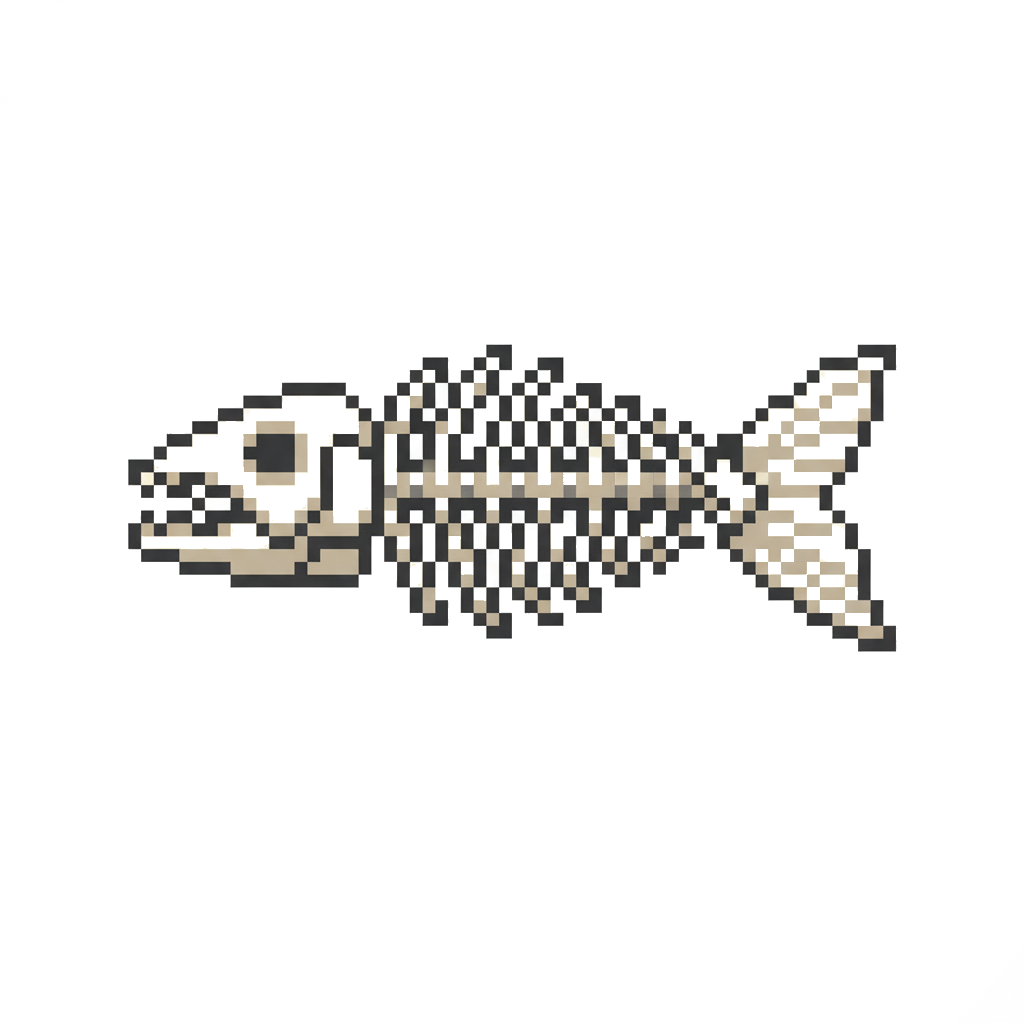
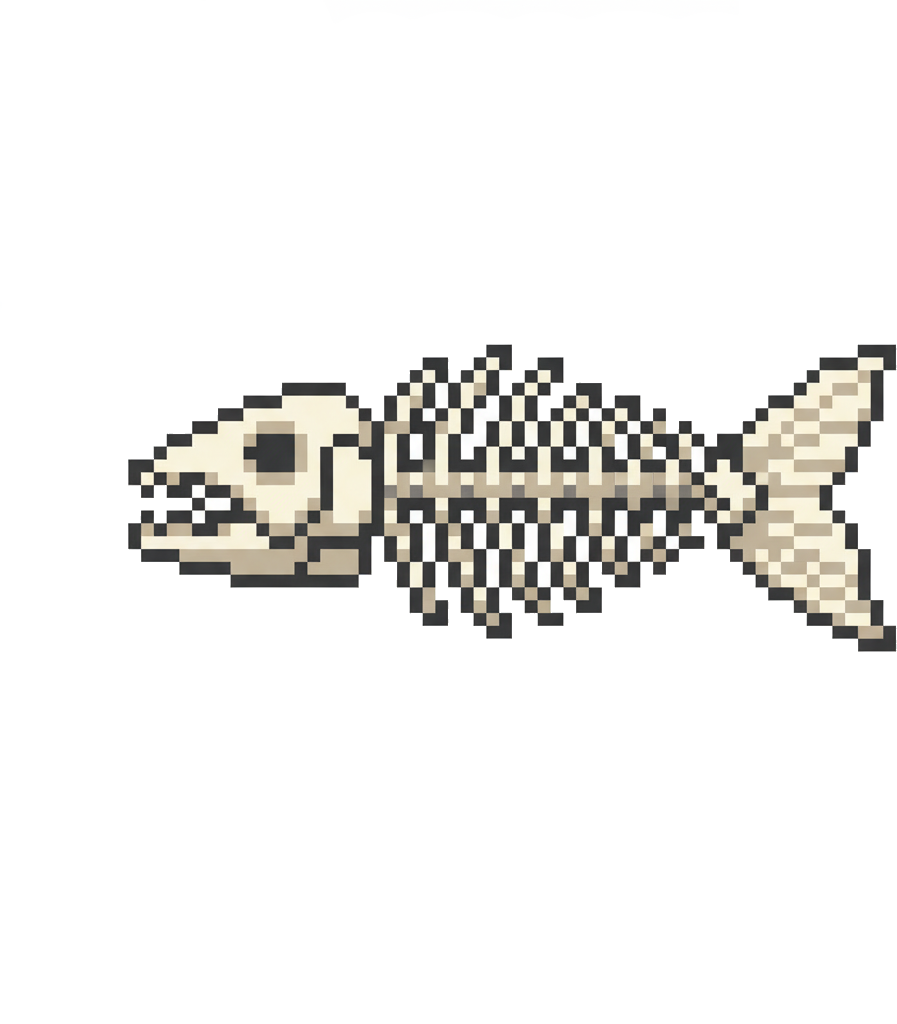
alteração de imagem lixo e informações do jogo no card game over

Changed region(s): [[0.1249, 0.3125, 1.0, 0.6562]]

diff --git a/Title.html b/Title.html
@@ -12,8 +12,22 @@
         body {
             font-family: "Jersey 10", sans-serif;
             background-color:aquamarine;
+            font-family: "Jersey 10", sans-serif;
+            background-color: aquamarine;
+            margin: 0;
+            padding: 0;
+            overflow: hidden; /* Prevent scrollbars */
+        }              
+            
+        #myCanvas {
+            position: fixed; /* Changed from absolute to fixed */
+            top: 50%;
+            left: 50%;
+            transform: translate(-50%, -50%); /* Center the canvas */
+            z-index: -1; /* Put canvas behind other elements */
+            border: 2px solid #333;
         }
-
+        
         .banner {
             color: white;
             font-size: 200px;
@@ -22,7 +36,9 @@
             display: flex;
             justify-content: center;
             align-items: center;
-
+            position: relative; /* Ensure it stays above canvas */
+            z-index: 1;
+        
             width: 800px;
             height: 140px;
             background: #103D10;
@@ -35,6 +51,27 @@
                 0 8px, 8px 8px
             );
         }
+            
+            
+        #play_btn {
+            background-image: url(testImages/playBtn.png);
+            width: 250px;
+            height: 90px;
+            font-family: "Jersey 10", sans-serif;
+            color: #103D10;
+            font-size: 80px;
+            margin: 50px auto;
+            display: flex;
+            justify-content: center;
+            align-items: center;
+            border: none;
+            background-color: transparent;
+            position: relative; /* Ensure it stays above canvas */
+            z-index: 1;
+        }
+        
+
+        
 
         #play_btn {
             background-image: url(testImages/playBtn.png);
@@ -51,38 +88,60 @@
             background-color: transparent;
         }
 
+        @keyframes rotate-in {
+                0% {
+                    rotate: 0deg;
+                }
+                100% {
+                    rotate: -5deg;
+            
+           }
+        }
+
+        @keyframes rotate-out {
+                0% {
+                    rotate: -15deg;
+                }
+                50%{
+                    rotate: -180deg;
+                    transform: scale(0.5);
+                }
+                100% {
+                    rotate: -360deg;
+                    transform: scale(0);
+                }
+        }
+
         #play_btn:hover{
             transform: scale(1.1);
-            box-shadow: 0 0 20px rgba(0, 255, 255, 0.5)
+           
+            transition: all 0.3s ease-in-out;
+            animation: rotate-in 0.3s forwards;
         }
 
-        #play_btn::before{
-            content: '';
-            position: absolute;
-            top: -50%;
-            left: -50%;
-            width: 200%;
-            height: 200%;
-            background: linear-gradient(
-                0deg, 
-                transparent, 
-                transparent 30%, 
-                rgba(0,255,255,0.3)
-            );
-            transform: rotate(-45deg);
-            transition: all 0.5s ease;
-            opacity: 0;
+
+        #play_btn:active{
+            transform: translateY(0);
         }
 
-        #play_btn::before:hover{
-            opacity: 1;
-            transform: rotate(-45deg) translateY(100%);
+
+
+        .play-btn-clicked{
+            animation: rotate-out 1s forwards ease-out; 
+            transform: scale(1.1) rotate(0deg); 
+            transition: none; 
         }
+        
              
         
     </style>
 </head>
 <body>
+    
+    <div class="banner">GREENPLAY</div>
+    <button id="play_btn">JOGAR</button>
+    <canvas id="myCanvas" class="myCanvas" width="1500" height="900"></canvas>
+
     <script>
         const canvas = document.getElementById('myCanvas')
         const ctx = canvas.getContext('2d')
@@ -92,8 +151,6 @@
         let imgArvores = new Image()
         let imgCeu = new Image() 
         let imgNuvens = new Image()
-        let playBtn = new Image()
-        let imgLogo = new Image()
         let nuvensX = 0
 
         function drawLandingPage(){
@@ -102,8 +159,6 @@
             imgArvores.src = 'assets/img/arvores.png'
             imgCeu.src = '/assets/img/ceu.png'
             imgNuvens.src = '/assets/img/nuvens.png'
-            playBtn.src = '/assets/img/PlayButton.svg'
-            imgLogo.src = '/assets/img/Logo.svg'
 
             imgCeu.onload = function() {
                 // Start animation after sky loads
@@ -129,17 +184,21 @@
             if (nuvensX >= W) {
                 nuvensX = 0
             }
-
-            ctx.drawImage(imgLogo, W/2 - 392.5, 270)
-            ctx.drawImage(playBtn, W/2 - 157, 600) 
-            
+ 
         }
 
         drawLandingPage()
 
-    </script>
+        //Evento do botão de jogar
+        const playButton = document.getElementById('play_btn');
+        playButton.addEventListener('click', (e) => {
+            e.preventDefault();
+            playButton.classList.add('play-btn-clicked');
+            setTimeout(() => {
+                window.location.href = '/finalTest.html';
+            }, 1000); // Tempo para a animação completar
+        });
 
-    <div class="banner">GREENPLAY</div>
-    <button id="play_btn">JOGAR</button>
+    </script>
 </body>
 </html>

diff --git a/finalTest.html b/finalTest.html
@@ -19,15 +19,28 @@
       #gameover {
         display: none;
         position: absolute;
-        top: 40%;
+        top: 50%;
         left: 50%;
         transform: translate(-50%, -50%);
-        font-size: 64px;
-        background: rgba(0, 0, 0, 0.8);
-        padding: 30px 60px;
+        background: rgba(0, 0, 0, 0.9);
+        padding: 40px 80px;
         border: 4px solid #f00;
-        color: #f00;
         border-radius: 12px;
+        text-align: center;
+      }
+      #gameover h1 {
+        font-size: 64px;
+        color: #f00;
+        margin: 0 0 30px 0;
+      }
+      #gameover .stats {
+        font-size: 32px;
+        color: #fff;
+        line-height: 1.6;
+        text-align: left;
+      }
+      #gameover .stats div {
+        margin: 10px 0;
       }
       canvas {
         border: 2px solid #333;
@@ -39,7 +52,14 @@
     </style>
   </head>
   <body>
-    <div id="gameover">GAME OVER</div>
+    <div id="gameover">
+      <h1>GAME OVER</h1>
+      <div class="stats">
+        <div>Pontos: <span id="final-pontos">0</span></div>
+        <div>Desperdício: <span id="final-desperdicio">0</span></div>
+        <div>Nível do Solo: <span id="final-nivel">0</span></div>
+      </div>
+    </div>
 
     <script>
         // ------------------- VARIÁVEIS GERAIS -------------------
@@ -127,7 +147,7 @@
                 push();
                 translate(obj.x, obj.y);
                 rotate(obj.rot);
-                if (obj.img) image(obj.img, 0, 0, 50, 50);
+                if (obj.img) image(obj.img, 0, 0, 80, 80);
                 else drawPlaceholder(0, 0, 48, obj.id);
                 pop();
                 obj.y += obj.vel;
@@ -257,6 +277,9 @@
                 progress: 0,
                 angulo: random(TWO_PI),
             });
+            if (destinoY < 400) {
+                lixoPilha.pop();
+            }
         }
 
         function mostraHUD() {
@@ -271,6 +294,9 @@
 
         function gameOver() {
             noLoop();
+            document.getElementById("final-pontos").textContent = pontos;
+            document.getElementById("final-desperdicio").textContent = desperdicio;
+            document.getElementById("final-nivel").textContent = nivelSolo;
             document.getElementById("gameover").style.display = "block";
         }
 
